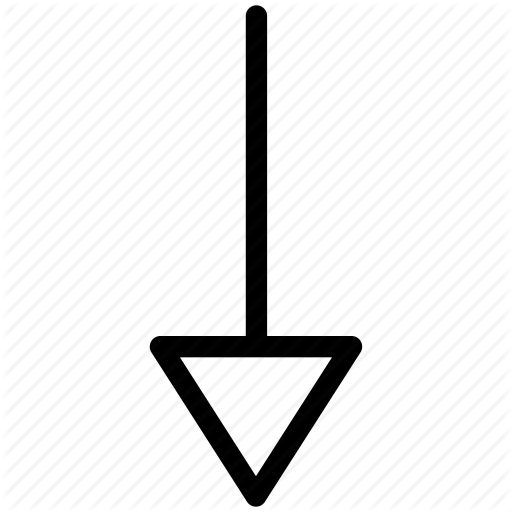
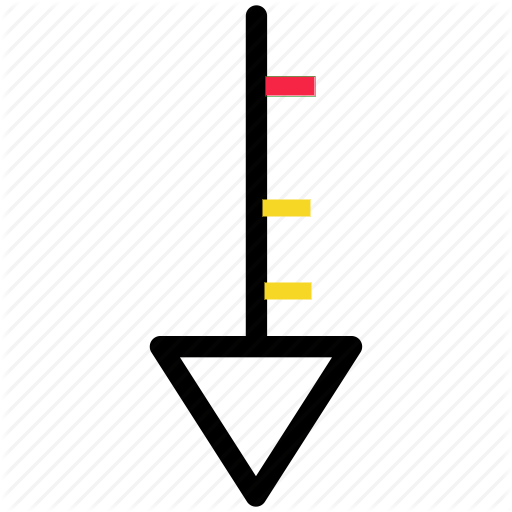
Add cards component into match view

Changed region(s): [[0.5, 0.5312, 0.625, 0.5938], [0.5, 0.375, 0.625, 0.4375], [0.5, 0.125, 0.625, 0.1875]]

diff --git a/src/app/match_components/cards/match_cards.component.html b/src/app/match_components/cards/match_cards.component.html
@@ -1,39 +1,77 @@
-<<div class="match-cards">
-  <h1>Cards</h1>
-  <br/>
-  <div class="container">
+<div class="match-cards">
+  <div class="title">
+    Cards
+  </div>
+  <div class="container-cards">
     <div class="column-left">
-      <div class="container" id="inner-left">
-        <div class="column-left">
-          <img src="../../../assets/img/down.png" alt="a">
+      <div class="line">
+        <img src="../../../assets/img/down.png" alt="">
+        <br>
+        <div>Red cards: 1</div>
+        <div>Yellow cards: 2</div>
+      </div>
+      <div class="card">
+        <div class="single-card">
+          <img src="../../../assets/img/card.png" alt="" width="225" height="150">
         </div>
-        <div class="column-right" id="left-card">
-          <div id="rectangle-card">
-            <div style="alignment: center">
-              Antoine Griezman
-              Chelsea : Chelsea
-            </div>
-          </div>
-          <br>
-          <div id="rectangle-match"></div>
+        <div class="single_match">
+          <img src="../../../assets/img/card-match.png" alt="" width="225" height="150">
         </div>
       </div>
     </div>
     <div class="column-right">
-      <div class="container" id="inner-right">
-        <div class="column-left">
-          <div id="rectanle-match"></div>
-          <br>
-          <div id="rectangle-match-bigger"></div>
+      <div class="card">
+        <div class="single-card">
+          <img src="../../../assets/img/card.png" alt="" width="225" height="150">
         </div>
-        <div class="column-right">
-          <img src="../../../assets/img/down.png" alt="a">
-
+        <div class="single_match">
+          <img src="../../../assets/img/card-match.png" alt="" width="225" height="150">
         </div>
       </div>
+      <div class="line">
+        <img src="../../../assets/img/down2.png" alt="">
+        <br>
+        <div>Red cards: 0</div>
+        <div>Yellow cards: 1</div>
+      </div>
+
     </div>
-
+    </div>
   </div>
+<!--  <br/>-->
+<!--  <div class="container">-->
+<!--    <div class="column-left">-->
+<!--      <div class="container" id="inner-left">-->
+<!--        <div class="column-left">-->
+<!--          <img src="../../../assets/img/down.png" alt="a">-->
+<!--        </div>-->
+<!--        <div class="column-right" id="left-card">-->
+<!--          <div id="rectangle-card">-->
+<!--            <div style="alignment: center">-->
+<!--              Antoine Griezman-->
+<!--              Chelsea : Chelsea-->
+<!--            </div>-->
+<!--          </div>-->
+<!--          <br>-->
+<!--          <div id="rectangle-match"></div>-->
+<!--        </div>-->
+<!--      </div>-->
+<!--    </div>-->
+<!--    <div class="column-right">-->
+<!--      <div class="container" id="inner-right">-->
+<!--        <div class="column-left">-->
+<!--          <div id="rectanle-match"></div>-->
+<!--          <br>-->
+<!--          <div id="rectangle-match-bigger"></div>-->
+<!--        </div>-->
+<!--        <div class="column-right">-->
+<!--          <img src="../../../assets/img/down.png" alt="a">-->
 
-</div>
+<!--        </div>-->
+<!--      </div>-->
+<!--    </div>-->
+
+<!--  </div>-->
+
+
 

diff --git a/src/app/match_components/cards/match_cards.component.scss b/src/app/match_components/cards/match_cards.component.scss
@@ -1,46 +1,102 @@
 @import '../../../styles/_variables.scss';
 
 .match-cards{
-  display: flex;
-  align-items: center;
-  flex-direction: column;
-  padding: 6rem;
-
-  background: $color-grey;
-  color: $color-light;
-  width: max-content;
+  display: block;
+  alignment: center;
+  position: relative;
+  width: 1800px;
+  margin-top: 20px;
+  background-color: $color-grey;
+  height: 80rem;
+  color: black;
+  .title{
+    color: black;
+    text-decoration: underline;
+    font-size: 50px;
+    margin-right: 150rem;
+    padding-top: 30px;
+  }
+  .container-cards{
+    .column-left{
+      float: left;
+      width: 50%;
+      border-right: 1px solid black;
+      .line{
+        float: left;
+        width: 50%;
+        padding: 2rem;
+        font-size: 20px;
+      }
+      .card{
+        float: right;
+        margin-left: 5rem;
+        vertical-align: center;
+        margin-top: 5rem;
+        padding: 5rem;
+      }
+    }
+    .column-right{
+      float: left;
+      width: 50%;
+      border-right: 1px solid black;
+      .line{
+        float: right;
+        width: 50%;
+        //padding: 2rem;
+        font-size: 20px;
+        margin-right: 2rem;
+      }
+      .card{
+        float: left;
+        margin-left: 5rem;
+        vertical-align: center;
+        margin-top: 5rem;
+        padding: 5rem;
+      }
+    }
+  }
 }
-
-.container{}
-.column-left{ float: left; width: 50%;}
-.column-right{ float: right; width: 50%;}
-
-#inner-left{
-  display: table;
-}
-#left-card{
-  display: inline-block;
-
-}
-
-
-#rectangle-card {
-  width:100px;
-  height:50px;
-  background:yellow;
-}
-
-#rectangle-match {
-  width:100px;
-  height:50px;
-  background:gray;
-
-}
-
-#rectangle-match-bigger {
-  width:150px;
-  height:75px;
-  background:gray;
-
-}
-
+//.match-cards{
+//  display: flex;
+//  align-items: center;
+//  flex-direction: column;
+//  padding: 6rem;
+//
+//  background: $color-grey;
+//  color: $color-light;
+//  width: max-content;
+//}
+//
+//.container{}
+//.column-left{ float: left; width: 50%;}
+//.column-right{ float: right; width: 50%;}
+//
+//#inner-left{
+//  display: table;
+//}
+//#left-card{
+//  display: inline-block;
+//
+//}
+//
+//
+//#rectangle-card {
+//  width:100px;
+//  height:50px;
+//  background:yellow;
+//}
+//
+//#rectangle-match {
+//  width:100px;
+//  height:50px;
+//  background:gray;
+//
+//}
+//
+//#rectangle-match-bigger {
+//  width:150px;
+//  height:75px;
+//  background:gray;
+//
+//}
+//

diff --git a/src/app/match_components/goals/match_goals.component.scss b/src/app/match_components/goals/match_goals.component.scss
@@ -7,8 +7,9 @@
   width: 1800px;
   margin-top: 20px;
   background-color: $color-grey;
-  height: 1000rem;
+  height: 80rem;
   color: black;
+  border-bottom: 1px solid black;
   .match_date_location {
     width: auto;
     font-size: 20px;
@@ -58,10 +59,3 @@
     }
   }
 }
-
-//
-//.column-left{ float: left; width: 45%;}
-//.column-right{ float: right; width: 45%;}
-//.column-center{  display: inline-block;  width: 10%; }
-//
-

diff --git a/src/app/match/match.component.html b/src/app/match/match.component.html
@@ -1,6 +1,8 @@
-<div class="match-goals">
-  <app-match-goals></app-match-goals>
+<div class="match-component">
+  <div class="match-goals">
+    <app-match-goals></app-match-goals>
+  </div>
+  <div class="match-cards">
+    <app-match-cards></app-match-cards>
+  </div>
 </div>
-<!--<div class="match-cards">-->
-<!--  <app-match-cards></app-match-cards>-->
-<!--</div>-->

diff --git a/src/app/match/match.component.scss b/src/app/match/match.component.scss
@@ -1,0 +1,12 @@
+@import '../../styles/_variables.scss';
+
+.match-component{
+  display: block;
+  alignment: center;
+  position: relative;
+  width: 1800px;
+  //margin-top: 20px;
+  background-color: $color-grey;
+  height: 100rem;
+  color: black;
+}
